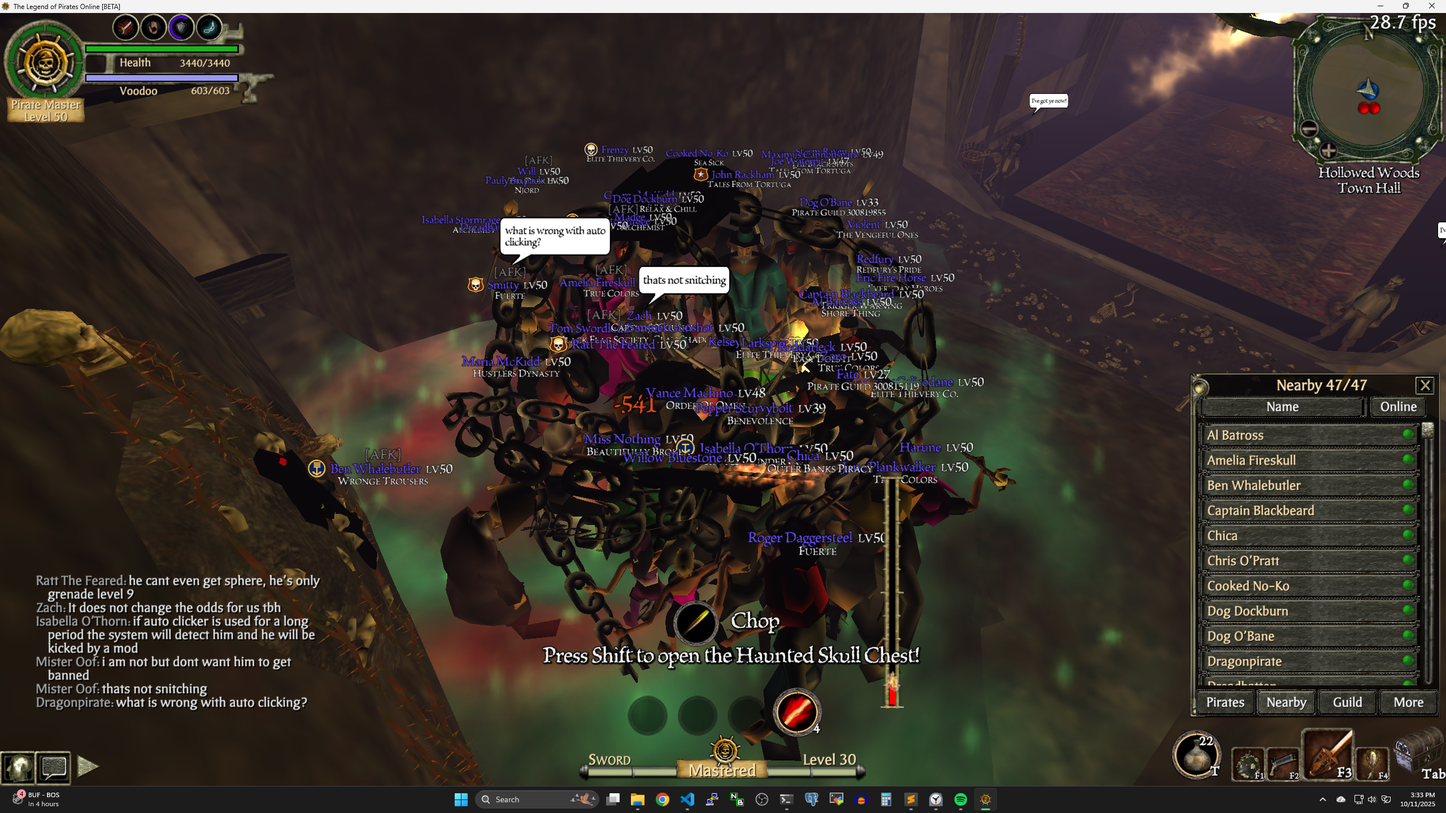
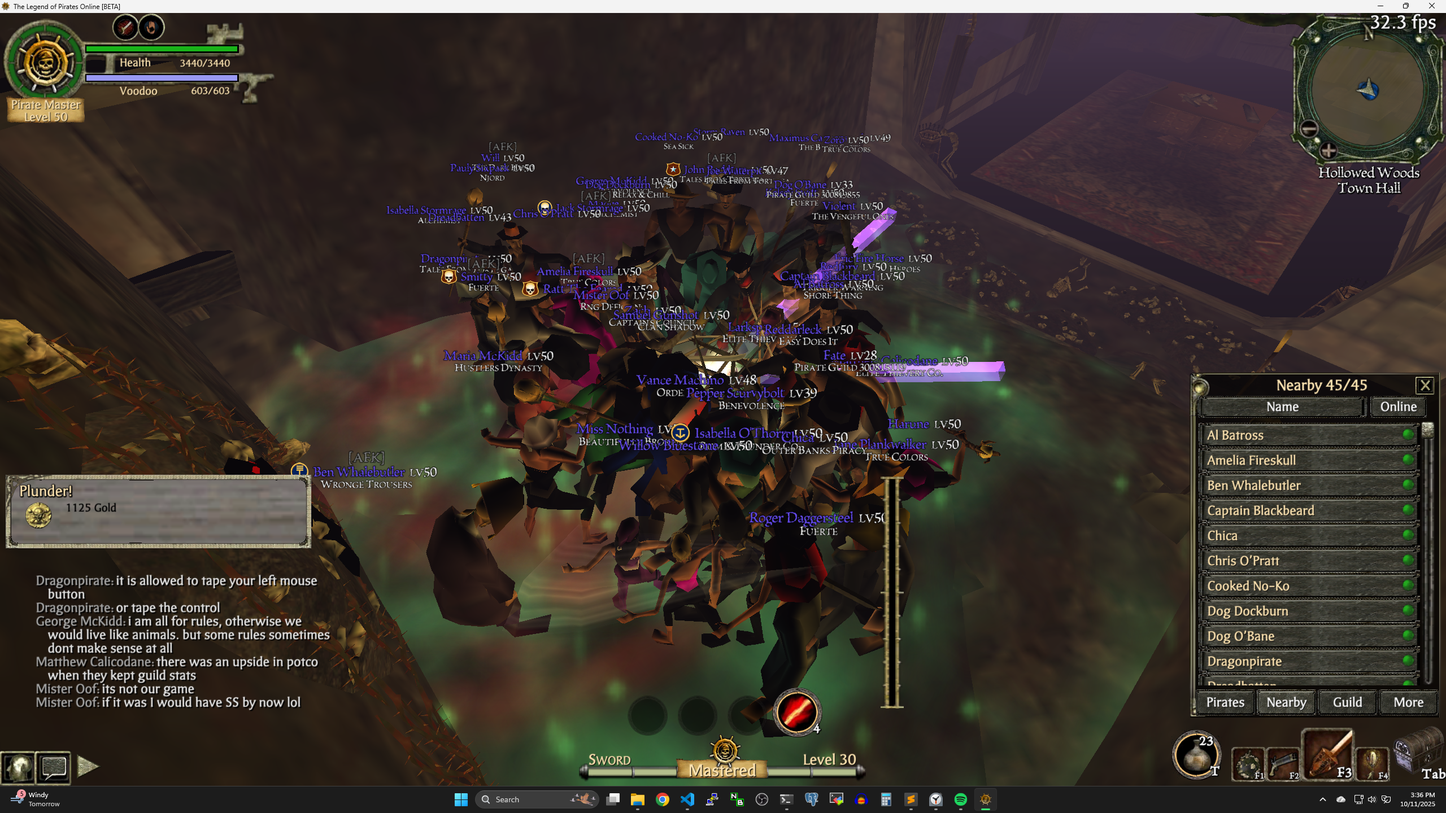
change frequent screenshot to 1

diff --git a/screenshottoapi.py b/screenshottoapi.py
@@ -21,7 +21,7 @@ API_URL = os.getenv("API_URL")
 ENEMY_CONFIDENCE_THRESHOLD = 0.8
 ATTACK_DELAY = 0.5
 LOOT_CLICK_COUNT = 2
-SCREENSHOT_INTERVAL = 3
+SCREENSHOT_INTERVAL = 1
 FONT_SIZE = 24
 SCREENSHOT_FILENAME = "screenshot.png"        # always overwrite this file
 LABELED_FILENAME = "labeled_screenshot.png"   # always overwrite this file
